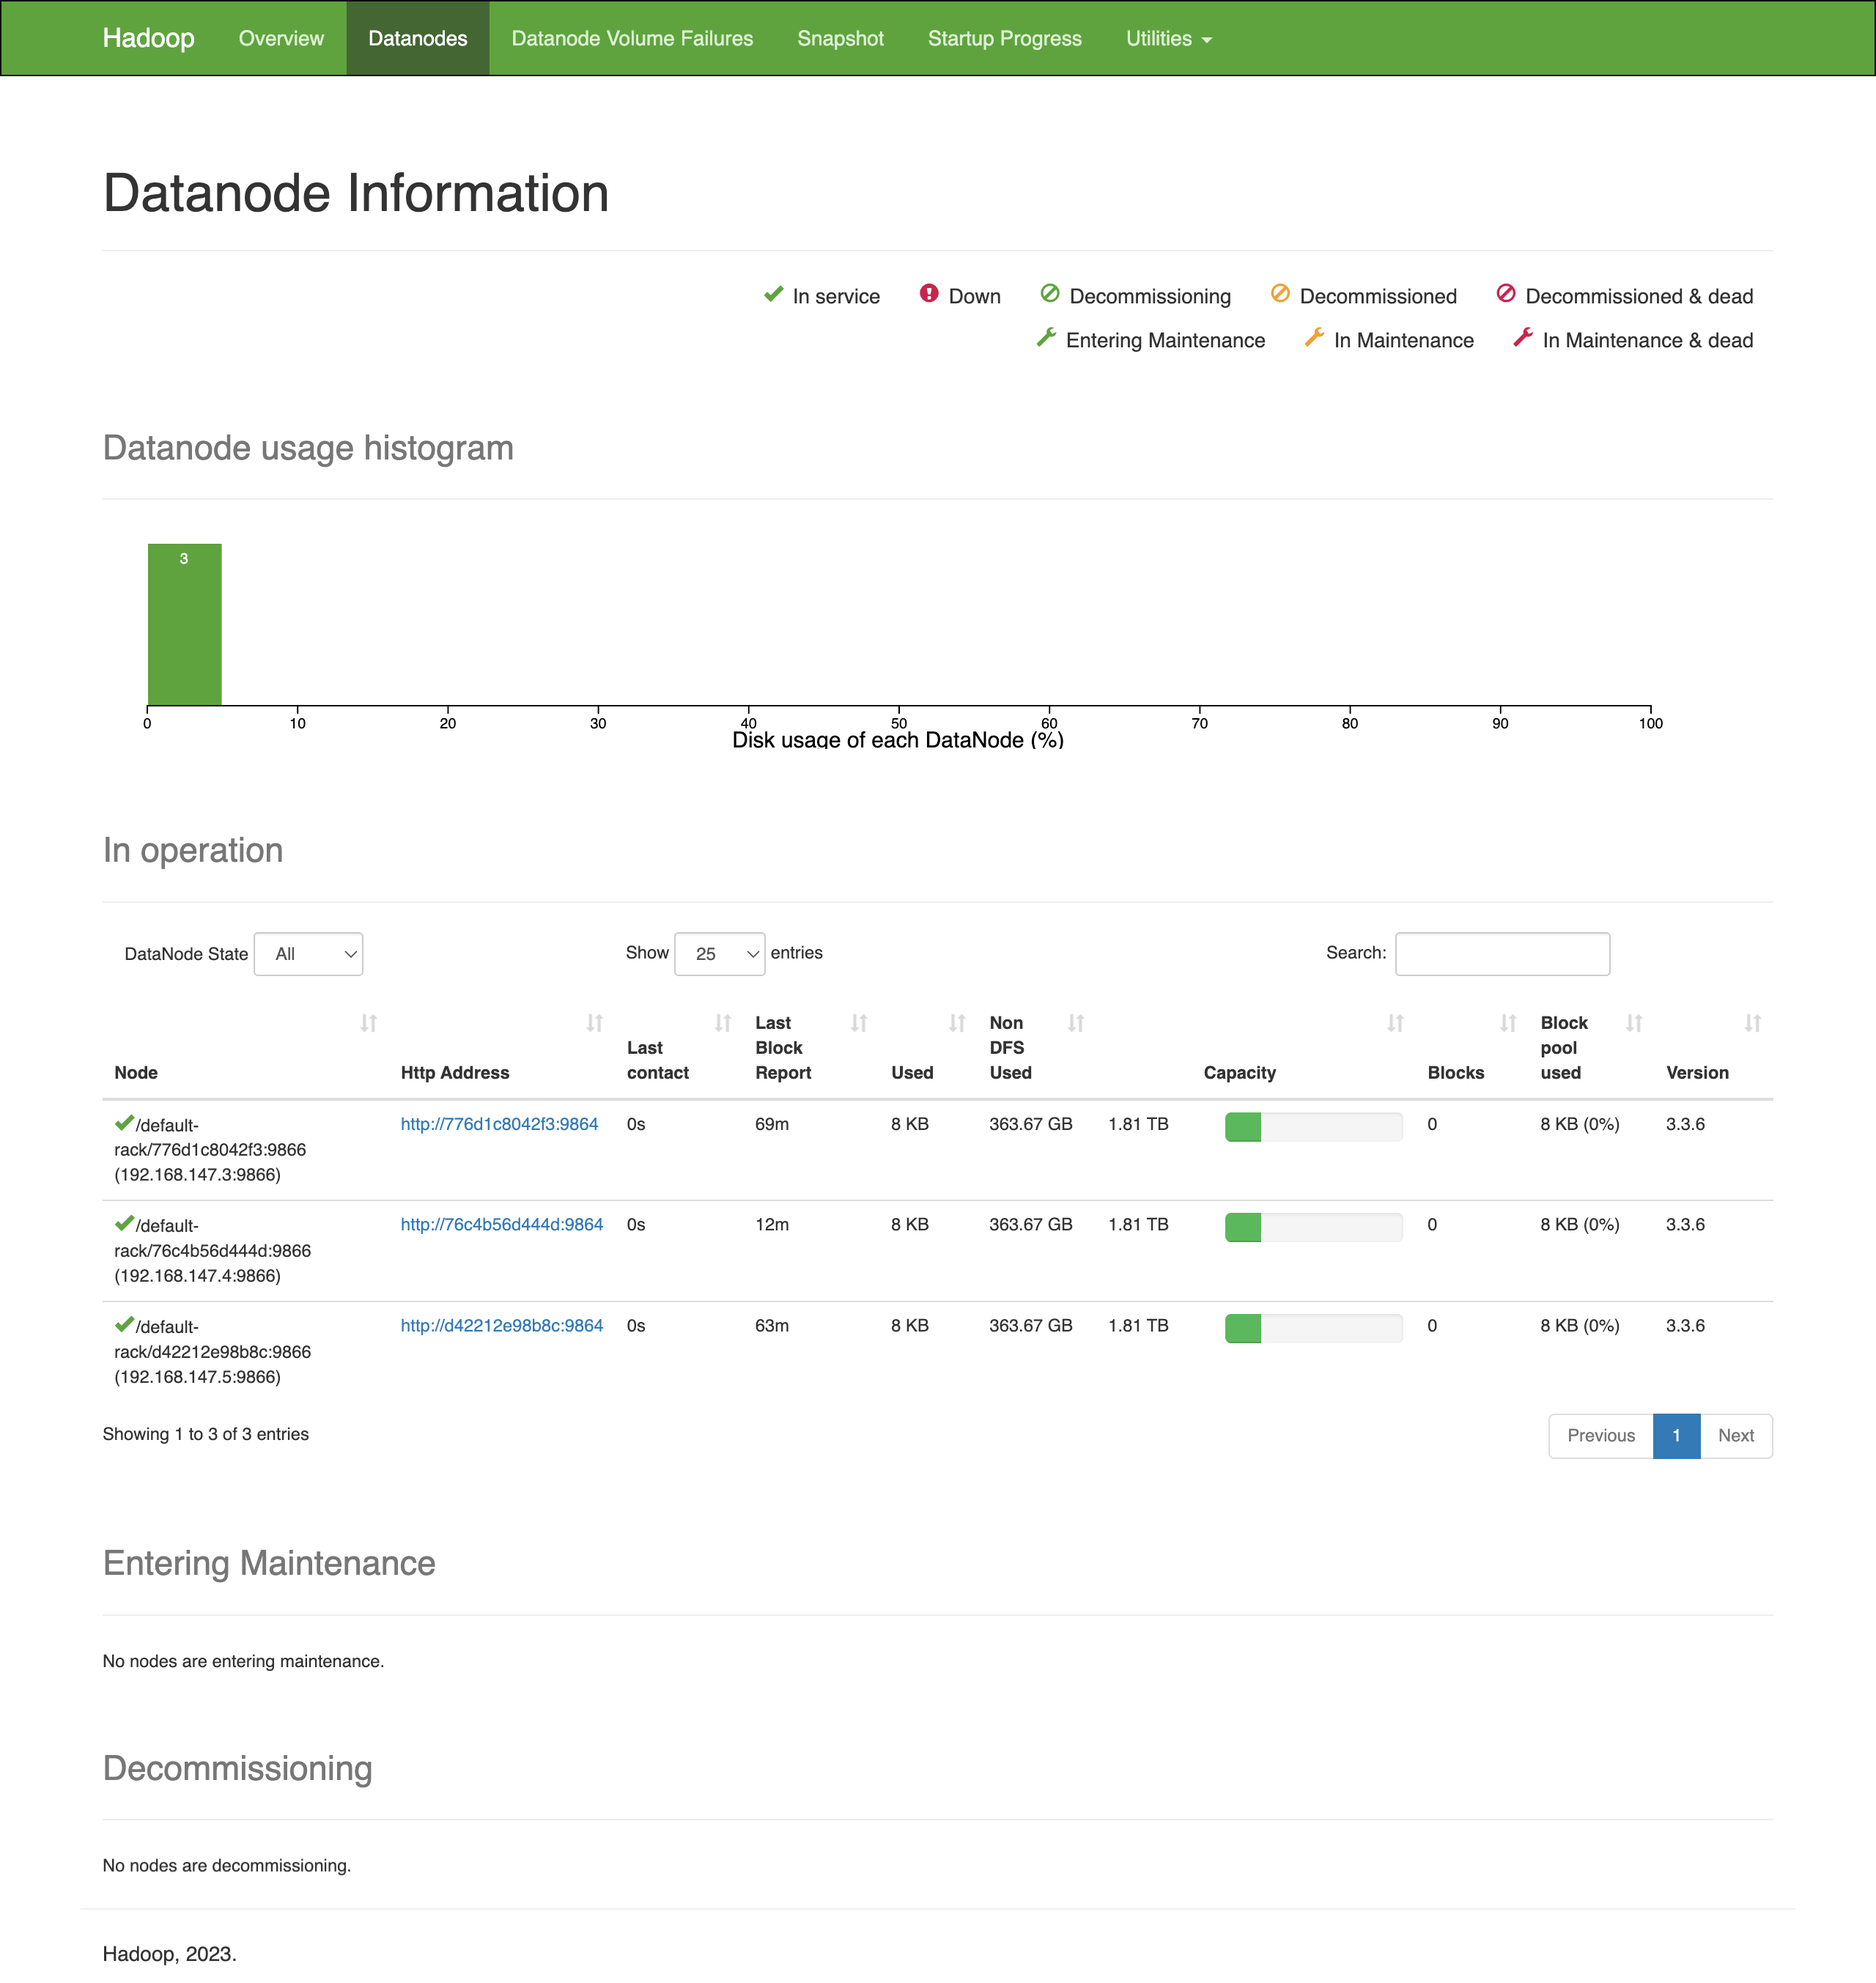
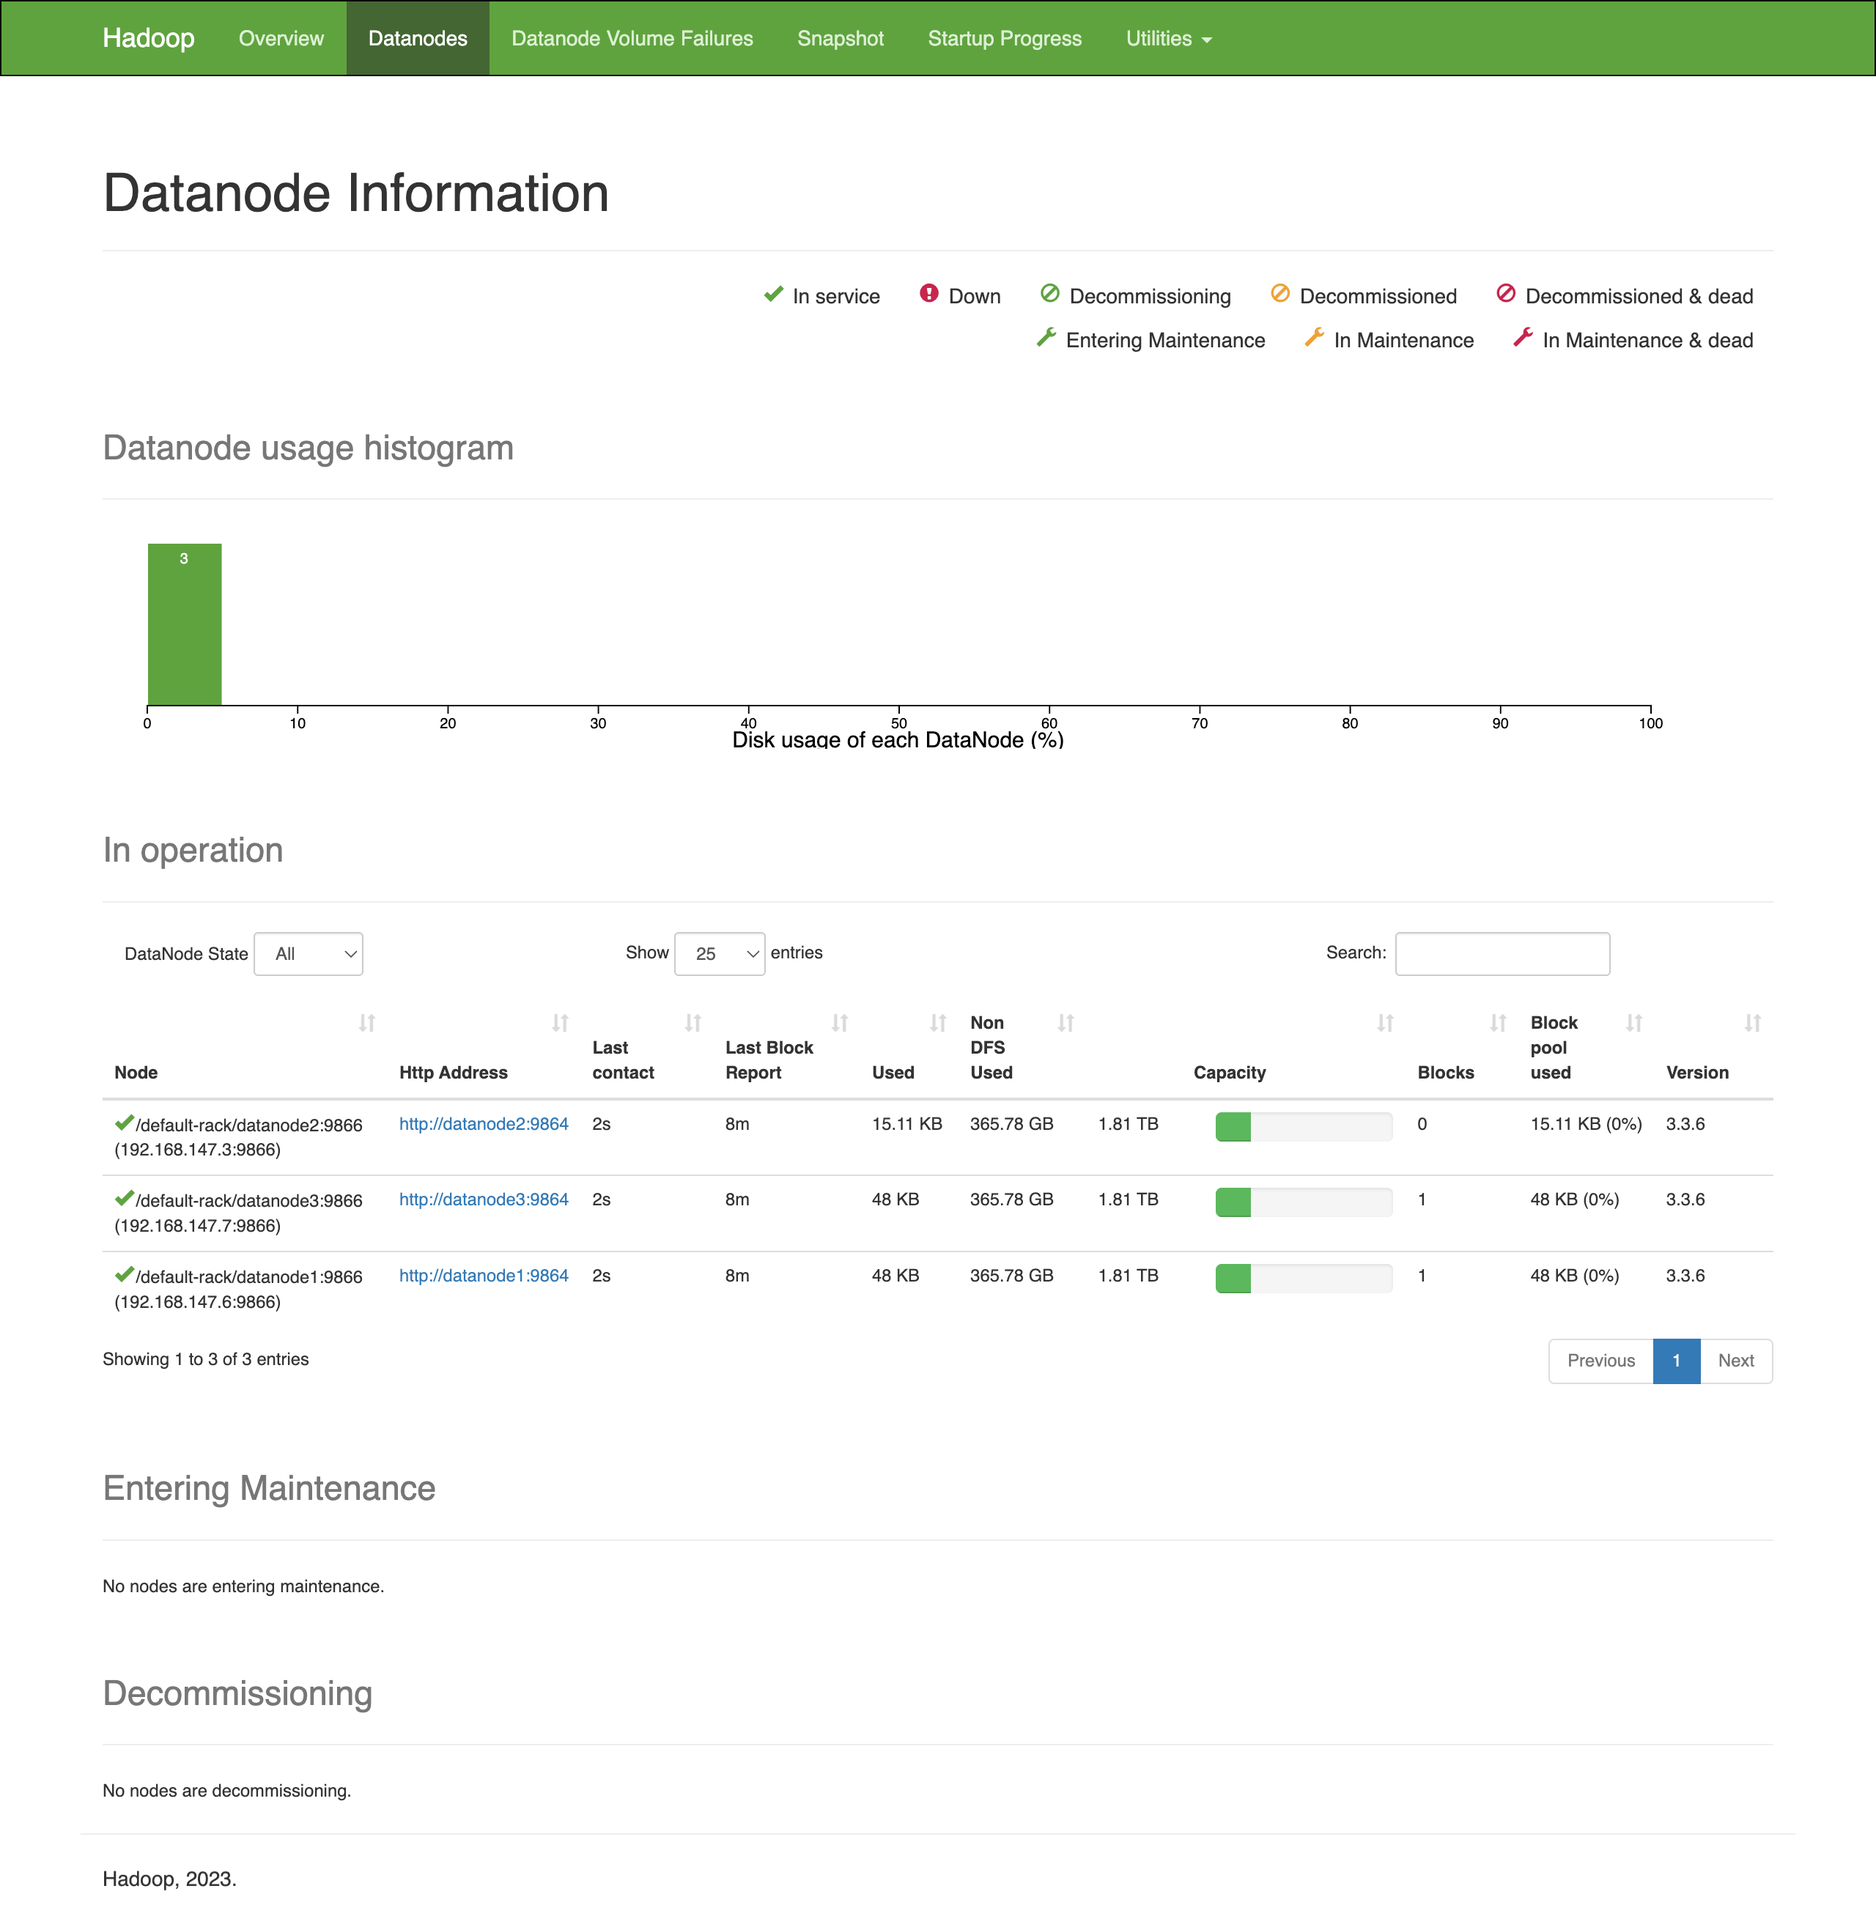
Enhance DataNode configuration in docker-compose and README. Added hostname and port mapping for individual DataNode access, updated HDFS settings for hostname usage, and improved documentation for monitoring capabilities and hostname resolution.

diff --git a/README.md b/README.md
@@ -53,11 +53,12 @@ Project ini menyediakan setup lengkap untuk menjalankan **Apache Hadoop 3.3.6** 
 
 ## ✨ Features
 
-✅ **Easy Setup** - Single command untuk deploy entire cluster  
-✅ **Persistent Storage** - Data tetap ada setelah container restart  
-✅ **Fault Tolerant** - 3-node replication untuk data safety  
-✅ **Web Monitoring** - Built-in web UI untuk HDFS dan YARN  
-✅ **Production Ready** - Konfigurasi optimal untuk workload nyata  
+✅ **Easy Setup** - Single command untuk deploy entire cluster
+✅ **Persistent Storage** - Data tetap ada setelah container restart
+✅ **Fault Tolerant** - 3-node replication untuk data safety
+✅ **Web Monitoring** - Built-in web UI untuk HDFS, YARN, dan individual DataNode
+✅ **Individual DataNode Access** - Monitor setiap DataNode secara terpisah via Web UI
+✅ **Production Ready** - Konfigurasi optimal untuk workload nyata
 ✅ **Well Documented** - Comprehensive docs dengan troubleshooting guide  
 
 ---
@@ -100,9 +101,26 @@ docker-compose exec namenode hdfs dfsadmin -report
 docker-compose exec resourcemanager yarn node -list
 ```
 
-**5. Access Web UIs**
+**5. Configure hostname resolution** (for DataNode Web UI access)
+
+Add to `/etc/hosts`:
+```bash
+sudo nano /etc/hosts
+```
+
+Add these lines:
+```
+127.0.0.1 datanode1
+127.0.0.1 datanode2
+127.0.0.1 datanode3
+```
+
+**6. Access Web UIs**
 - **NameNode UI**: http://localhost:9870
 - **ResourceManager UI**: http://localhost:8088
+- **DataNode 1 UI**: http://localhost:9864
+- **DataNode 2 UI**: http://localhost:9865
+- **DataNode 3 UI**: http://localhost:9866
 
 ### 📸 Cluster Screenshots
 
@@ -255,7 +273,10 @@ namenode:
 
 **docker-compose.yml** - Service definitions
 - 1 NameNode (port 9870)
-- 3 DataNodes
+- 3 DataNodes with hostname and port mapping:
+  - `datanode1` (container_name: datanode1, hostname: datanode1, port: 9864)
+  - `datanode2` (container_name: datanode2, hostname: datanode2, port: 9865)
+  - `datanode3` (container_name: datanode3, hostname: datanode3, port: 9866)
 - 1 ResourceManager (port 8088)
 - 3 NodeManagers
 
@@ -263,7 +284,16 @@ namenode:
 ```
 HDFS-SITE.XML_dfs.replication=3
 HDFS-SITE.XML_dfs.namenode.name.dir=file:///tmp/hadoop-root/dfs/name
+HDFS-SITE.XML_dfs.client.use.datanode.hostname=false
+HDFS-SITE.XML_dfs.datanode.use.datanode.hostname=false
 YARN-SITE.XML_yarn.resourcemanager.hostname=resourcemanager
+```
+
+**/etc/hosts** - Hostname resolution (Required for DataNode Web UI)
+```
+127.0.0.1 datanode1
+127.0.0.1 datanode2
+127.0.0.1 datanode3
 ```
 
 **.env** - Environment variables
@@ -284,6 +314,22 @@ COMPOSE_PROJECT_NAME=hadoop
 - File browser
 - Logs
 
+**DataNode Web UIs** (Individual monitoring)
+- **DataNode 1** - http://localhost:9864
+  - Block information
+  - Volume status
+  - Storage metrics
+- **DataNode 2** - http://localhost:9865
+  - Block information
+  - Volume status
+  - Storage metrics
+- **DataNode 3** - http://localhost:9866
+  - Block information
+  - Volume status
+  - Storage metrics
+
+> **Note**: DataNode Web UIs require hostname configuration in `/etc/hosts` as described in Quick Start section.
+
 **ResourceManager** - http://localhost:8088
 - Cluster metrics
 - Running applications
@@ -299,11 +345,19 @@ docker-compose exec namenode hdfs dfsadmin -report
 # YARN nodes
 docker-compose exec resourcemanager yarn node -list
 
+# Check specific file distribution across DataNodes
+docker-compose exec namenode hdfs fsck /path/to/file -files -blocks -locations
+
 # Disk usage
 docker-compose exec namenode hdfs dfs -du -h /
 
 # Running apps
 docker-compose exec resourcemanager yarn application -list
+
+# Individual DataNode logs
+docker logs datanode1
+docker logs datanode2
+docker logs datanode3
 ```
 
 ---
@@ -473,6 +527,13 @@ If you find this project useful, please consider giving it a ⭐!
 ---
 
 ## 📅 Changelog
+
+**v1.1.0** (2025-12-08)
+- ✅ Added DataNode hostname configuration (datanode1, datanode2, datanode3)
+- ✅ Enabled individual DataNode Web UI access
+- ✅ Configured port mapping for DataNode monitoring (9864, 9865, 9866)
+- ✅ Added `/etc/hosts` configuration guide
+- ✅ Enhanced monitoring capabilities with per-node metrics
 
 **v1.0.0** (2025-12-01)
 - ✅ Initial 3-node cluster setup
